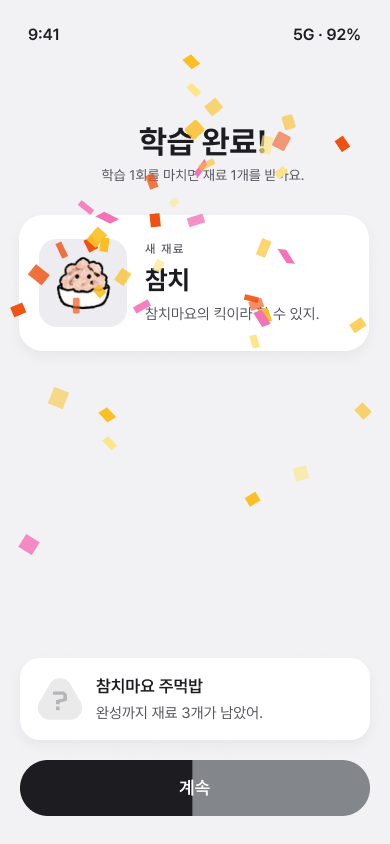
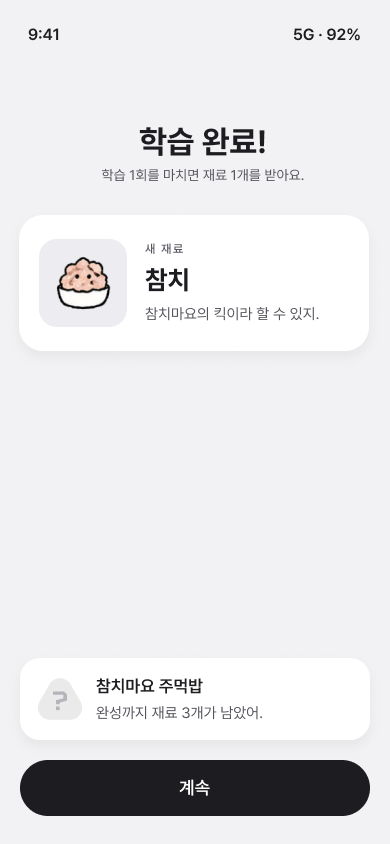
spec: 온보딩 스크린샷 최종 Figma 정합 (이미지 갈이 + 5→10 확정)
Figma 298-44943(최종 디자인) 기준으로 온보딩 핸드오프 정합.

- screens 재익스포트(구 오렌지 CTA/구 일러스트 → 최종):
  01-start(사장 일러스트+잉크 CTA), 02-guide("먼저 10개만"·"?"/teaser 제거·잉크 CTA),
  05-ingredient-earned(잉크 CTA), 06-receipt-practice(화이트 인버트 CTA), 07-finish(독서 고양이+잉크 CTA)
  → 03·04·06b는 최종과 동일해 유지
- app.js: ② 안내 "먼저 5개만" → "먼저 10개만" (O-8 최종 정합)
- README: O-8 5단어→10단어 확정, N/5→N/10, ⚠ 재익스포트 예정 노트 해소

diff --git a/handoff/redesign-2026-08/onboarding/app.js b/handoff/redesign-2026-08/onboarding/app.js
@@ -87,7 +87,7 @@ function renderGuide(){
     <div class="body">
       <img class="illust guide-illust" src="assets/guide-mascot.png" alt="">
       <div class="guide-copy">
-        <p class="lead-title">먼저 5개만.</p>
+        <p class="lead-title">먼저 10개만.</p>
         <p class="lead-sub">짧게 공부하고, 재료를 얻는<br>흐름을 먼저 연습해보자.</p>
       </div>
     </div>

diff --git a/handoff/redesign-2026-08/onboarding/README.md b/handoff/redesign-2026-08/onboarding/README.md
@@ -1,12 +1,12 @@
 # 온보딩 스펙 — 첫 학습 사이클 체험 (2026-08)
 
-> 상태: **확정** (미확정 0 · 재진입 O-12는 기본값 제안) · 근거: Figma `오니기리 칸지` node **298-44943**(섹션, dev) · 화면 PNG 8종(`screens/`) · 모션 영상 2종(`motion/`)
+> 상태: **확정** (미확정 0 · 재진입 O-12는 기본값 제안) · 근거: Figma `오니기리 칸지` node **298-44943**(섹션, dev) · 화면 PNG 8종(`screens/`, **2026-09 최종 재익스포트**) · 모션 영상 2종(`motion/`)
 > 상위 리디자인: [`../README.md`](../README.md) · 토큰 정본 [`../../../DESIGN.md`](../../../DESIGN.md), 컴포넌트 계약 [`../../../COMPONENTS.md`](../../../COMPONENTS.md)가 최종. 값 충돌 시 정본이 이긴다.
 
 ## 핵심 요약
-앱을 **처음 연 유저**가 학습→재료 획득→영수증까지 **한 사이클을 미리 체험**하는 온보딩. **5단어(O-8)** 짧은 세션이며, **"연습"이라 결과·스트릭·재료는 저장되지 않고**(O-6) 마지막에 실제 오늘 학습으로 진입한다.
+앱을 **처음 연 유저**가 학습→재료 획득→영수증까지 **한 사이클을 미리 체험**하는 온보딩. **10단어(O-8)** 짧은 세션이며, **"연습"이라 결과·스트릭·재료는 저장되지 않고**(O-6) 마지막에 실제 오늘 학습으로 진입한다.
 
-- 흐름: **① 시작(사장 인사) → ② 안내(먼저 5개만) → ③④ 학습(앞면→뜻 공개, 평가) → ⑤ 재료 획득(파티클+자동 넘어감) → ⑥ 영수증(출력 모션·연습) → ⑦ 마침(오늘 학습 시작)**
+- 흐름: **① 시작(사장 인사) → ② 안내(먼저 10개만) → ③④ 학습(앞면→뜻 공개, 평가) → ⑤ 재료 획득(파티클+자동 넘어감) → ⑥ 영수증(출력 모션·연습) → ⑦ 마침(오늘 학습 시작)**
 - 재사용: `PhoneticHintCard` · `ExampleTTSCard` · `GradeButtons` · `buttonAutoFill(M-1)` · `confettiBurst(M-2)`.
 - 신규: 온보딩 일러스트 화면 3종(N-8) · **영수증 출력 모션(M-3)**.
 
@@ -15,7 +15,7 @@
 |---|---|
 | 앱 최초 실행 + 온보딩 미완료 | 온보딩 시작(①) 노출 |
 | 온보딩 완료(마침 도달 또는 "나중에") | 재노출 안 함 (완료 플래그 저장 — 연습 학습 결과는 미저장, O-6) |
-| 세션 평가 진행 | 진행바 갱신(`N / 5`, O-8), 다음 단어. **5단어 소진** 시 재료 획득(⑤)으로 |
+| 세션 평가 진행 | 진행바 갱신(`N / 10`, O-8), 다음 단어. **10단어 소진** 시 재료 획득(⑤)으로 |
 | 세션 완료 + 재료 4/4 미달(온보딩=1개 획득, 3개 남음) | **오니기리 완성 화면 건너뜀** → 곧장 영수증(⑥) |
 | ② 안내 화면 표시 | "계속" 2초 자동 fill(M-1) → ③ 자동 진행 · 탭=즉시 (O-13) |
 | 재료 획득(⑤) 화면 표시 | 파티클 버스트(M-2) + "계속" 2초 자동 fill(M-1) → 자동 전환 |
@@ -27,17 +27,17 @@
 | # | 상황 (화면) | 동작 |
 |---|---|---|
 | 1 | ① 시작 — 사장 인사 "왔네. 여긴 오니기리 가게야. 단어를 외우면 재료가 쌓여." | `시작하기`(잉크) 탭 → ② |
-| 2 | ② 안내 — "먼저 5개만." + "짧게 공부하고, 재료를 얻는 흐름을 먼저 연습해보자." (마스코트) · *"?" 주먹밥·teaser 카피 없음(O-13)* | `계속`(잉크) = **buttonAutoFill(M-1)** 2초 자동 진행 · 탭=즉시 → ③ |
+| 2 | ② 안내 — "먼저 10개만." + "짧게 공부하고, 재료를 얻는 흐름을 먼저 연습해보자." (마스코트) · *"?" 주먹밥·teaser 카피 없음(O-13)* | `계속`(잉크) = **buttonAutoFill(M-1)** 2초 자동 진행 · 탭=즉시 → ③ |
 | 3 | ③ 학습 앞면 — 표제어 `勉強`·읽기 `べんきょう`·🔊, "탭해서 뜻 확인" / 진행바 `1 / 5` | 카드/`뜻 보기`(잉크) 탭 → ④ |
 | 4 | ④ 뜻 공개 — 뜻 `공부, 학습` + `PhoneticHintCard`(발음 유사) + `ExampleTTSCard`(예문·TTS) + `단어 상세 ›` | `아직이에요`(Again) / `외웠어요`(Good) 평가 → 다음 단어(진행바 +1) |
-| 5 | (반복) **5단어** 소진 | ⑤ 재료 획득으로 |
+| 5 | (반복) **10단어** 소진 | ⑤ 재료 획득으로 |
 | 6 | ⑤ 재료 획득 — "학습 완료!" + 새 재료 `참치` + "완성까지 재료 3개 남았어" | **파티클(M-2)** + `계속`(잉크) **2초 자동 fill(M-1)** → ⑥ (탭 시 즉시) |
 | 7 | ⑥ 영수증(연습) — "영수증을 받으세요" ONIGIRI SHOP / 새로 배운 12 · 다시 배울 3 · 받은 재료 ✓참치 / `참치마요 주먹밥 · 완성까지 3개` / `ありがとう · 연습` / "연습 중이라 저장되지 않아요" | **영수증 출력 모션(M-3)** 후 `확인했어`(**화이트=잉크 인버트**, O-9) 탭 → ⑦ |
 | 8 | ⑦ 마침 — "그럼 이제 시작해볼까." | `오늘 학습 시작`(잉크) → 실제 오늘 학습 진입 · `나중에`(텍스트) → 홈 |
 
 ## 상태 · 예외
 - **학습 카드 2상태**: 앞면(뜻 가림, `뜻 보기`) ↔ 뒷면(뜻 공개, `아직이에요` outline·`외웠어요` 잉크). = `GradeButtons` 학습 variant.
-- **진행바**: 상단 연속 1자 바 + **`N / 5`**(O-8). *(현 mockup의 `1 / 10`은 5로 수정 대상.)*
+- **진행바**: 상단 연속 1자 바 + **`N / 10`**(O-8). *(초기안 5단어 → 최종 10단어로 확정, Figma 298-44943.)*
 - **② 안내(O-13)**: "?" 미스터리 주먹밥 + "어떤 주먹밥이 완성될까?" **제거**(디자인 수정). `계속` = buttonAutoFill 자동 진행.
 - **완성 분기**: 재료 4/4 완성 시에만 오니기리 완성 화면. 온보딩은 미완성 → 건너뜀.
 - **영수증(온보딩=연습 1종, O-10)**: 참치마요 주먹밥 카드 + `ありがとう · 연습` + 단일 CTA `확인했어`(화이트). 실제 결과의 `이미지로 저장`·`공유`·`홈으로`·진행바는 **온보딩 미노출**(실제 학습 전용, `screens/06b` 참고).
@@ -52,7 +52,7 @@
 |---|---|---|
 | **O-6** ✅ | 온보딩 학습 저장 | 연습 세션 = 결과·스트릭·재료 **미저장**. "연습 중이라 저장되지 않아요…" 명시. **완료 플래그만 저장**(재노출 방지). |
 | **O-7** ✅ | 종료 후 진입 | 마침(⑦) `오늘 학습 시작`(주 경로) / `나중에`(홈). 온보딩은 1회. |
-| **O-8** ✅ | 세션 단어 수 | **5단어.** 진행바 `N / 5`. |
+| **O-8** ✅ | 세션 단어 수 | **10단어.** 진행바 `N / 10`. (초기안 5단어에서 **최종 10단어로 확정** — Figma 298-44943 정합.) |
 | **O-9** ✅ | CTA 색 | **잉크(D-3 준수).** 라이트 화면 = 잉크 다크 버튼, **다크 서피스(영수증) = 화이트 인버트**. (기존 오렌지 CTA 폐기.) |
 | **O-10** ✅ | 온보딩 영수증 | **연습 버전 1종** — 참치마요 주먹밥 카드 + `ありがとう · 연습` + 단일 `확인했어`. 실제 결과 UI(이미지 저장/공유/홈으로)는 미노출. |
 | **O-11** ✅ | 발음 유사 카드 데이터 | `PhoneticHintCard`는 **실데이터 개발 연결**(현 mockup 값 = 플레이스홀더). 디자인은 뉴트럴(D-1) 유지. |
@@ -62,15 +62,14 @@
 ## 변경 델타 (Δ — 정본 반영 대상)
 | ID | 항목 | 변경 |
 |---|---|---|
-| **N-8** | 온보딩 일러스트 화면 3종 | 신규 — `OnboardingIntro`(사장 인사) · `OnboardingGuide`(먼저 5개만) · `OnboardingFinish`(오늘 학습 시작). COMPONENTS.md 카탈로그 추가 대상. |
+| **N-8** | 온보딩 일러스트 화면 3종 | 신규 — `OnboardingIntro`(사장 인사) · `OnboardingGuide`(먼저 10개만) · `OnboardingFinish`(오늘 학습 시작). COMPONENTS.md 카탈로그 추가 대상. |
 | **M-3** | `receiptPrint` (영수증 출력) | 신규 모션 — 영수증 카드가 **프린트되듯 슬라이드-업**(≈1.5s). `reduced-motion` 시 즉시 표시. 레퍼런스 [`motion/02-receipt-print.mov`](./motion/02-receipt-print.mov). DESIGN.md motion + `../../interactions/MOTION.md` 반영 대상. |
 | (재사용) | `buttonAutoFill(M-1)` | **② 안내 계속 + ⑤ 재료획득 계속**에 적용. 레퍼런스 [`motion/button-continue-autofill.mp4`](./motion/button-continue-autofill.mp4). |
 | (재사용) | `confettiBurst(M-2)` | ⑤ 재료획득 파티클. 레퍼런스 [`motion/ingredient-particle.mp4`](./motion/ingredient-particle.mp4). |
 
 ## 관련 화면 · 모션 · 컴포넌트
 - **화면**: [`screens/`](./screens) — `01-start` · `02-guide` · `03-study-front` · `04-study-revealed` · `05-ingredient-earned` · `06-receipt-practice` · `06b-receipt-result` · `07-finish`
-  - ⚠ 에셋 참고: `02-guide.png`는 **구 버전("?" 주먹밥 + "어떤 주먹밥이 완성될까?" 포함)** — 최종은 **제거**(O-13). 재익스포트 예정.
-  - ⚠ 에셋 참고: `06-receipt-practice.png`는 **구 버전(오렌지 `확인했어`)** — 최종 CTA 색은 **O-9(화이트 인버트)** 기준. 재익스포트 예정.
+  - ✅ 에셋 최신화(2026-09): `01·02·05·06-receipt·07`을 최종 Figma(298-44943)에서 재익스포트 — **잉크 CTA(O-9)** · **10단어(O-8)** · **② 안내 "?"·teaser 제거(O-13)** · 신규 일러스트(사장/독서 고양이) 반영. `03·04·06b`는 최종과 동일해 유지.
 - **모션**: [`motion/`](./motion)
   - `button-continue-autofill.mp4` — **계속 버튼 자동 fill(M-1)** · `ingredient-particle.mp4` — **파티클(M-2)** *(단독 레퍼런스, 개발용 권장)*
   - `01-ingredient-particle-autofill.mov`(재료획득 인컨텍스트) · `02-receipt-print.mov`(영수증 출력 M-3) · poster PNG
